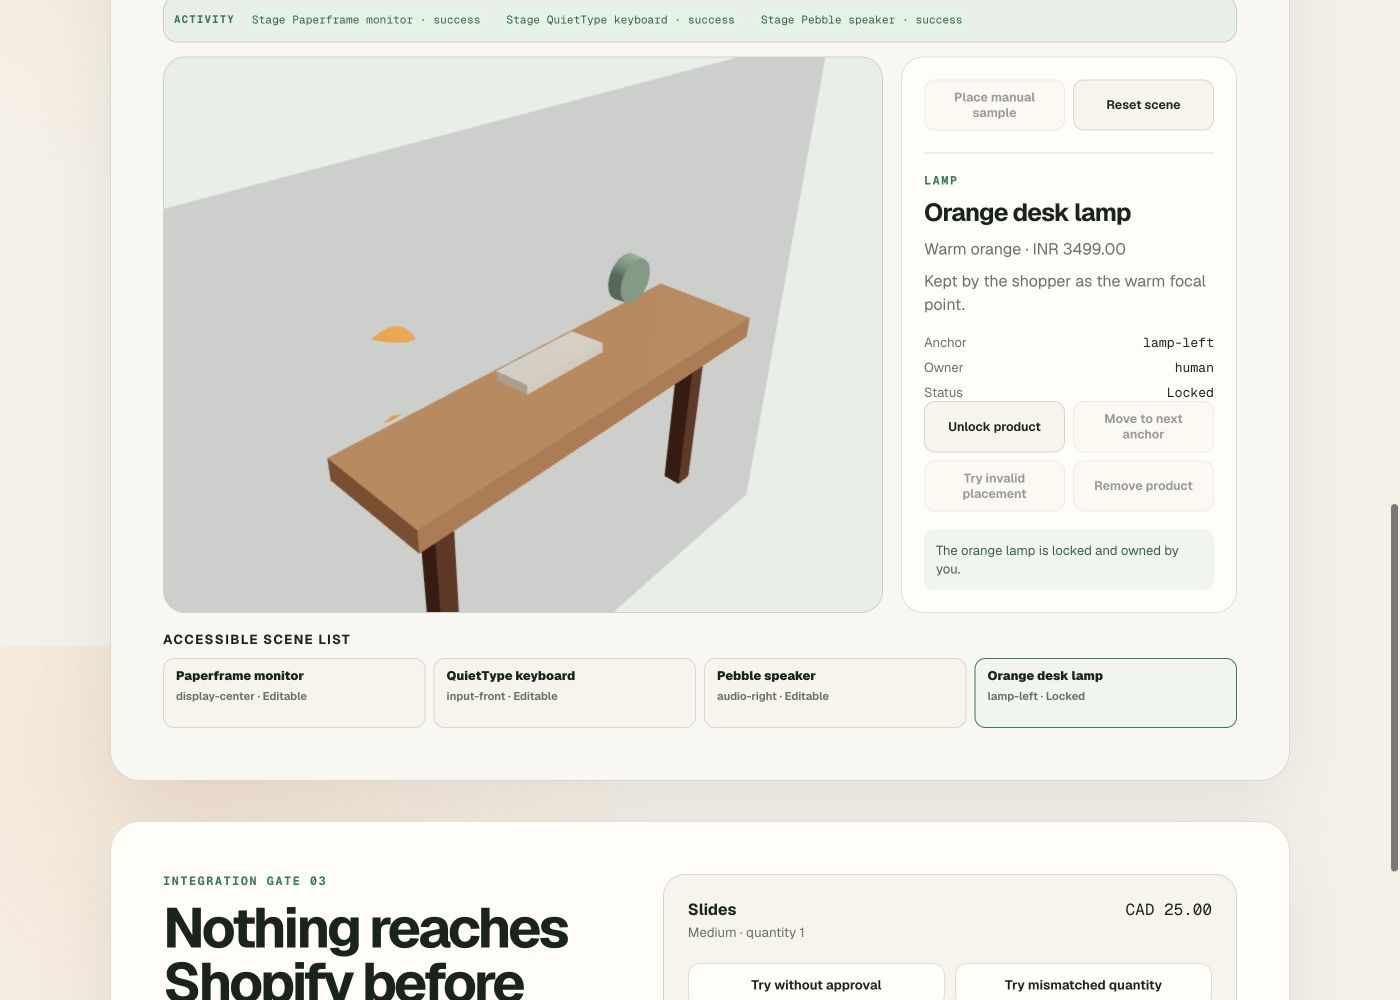
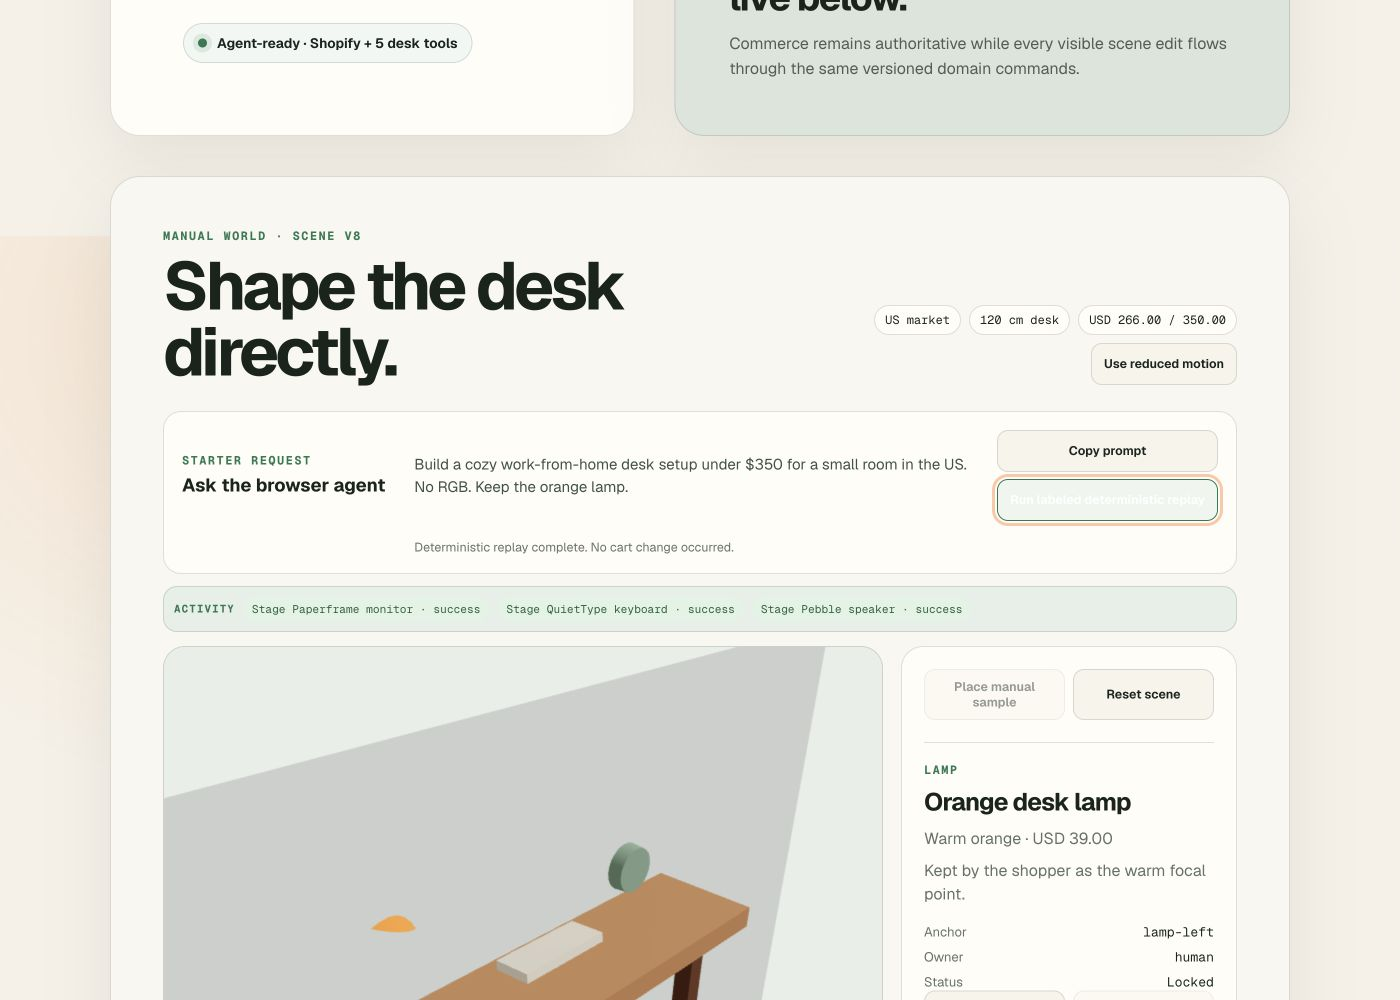
docs: verify US market deployment

diff --git a/docs/hackathon-build/build-notes.md b/docs/hackathon-build/build-notes.md
@@ -159,3 +159,4 @@
 - Repriced the nine deterministic desk fixtures in USD, changed the default market/runtime context to `US`, and updated domain, gateway, WebMCP, prompt, eval, and E2E expectations. The core staged setup is now $266.
 - Historical build notes and evidence retain their original INR results as an audit trail; all active product behavior and forward-looking requirements now use US/USD.
 - Reran the full 24-test suite, 3 E2E journeys, 4 evals, typecheck, lint, and production build successfully.
+- Deployed the US revision to `https://devp-one.vercel.app` and verified through the target browser: `market=US`, `$350` starter budget, `$266` staged total, four scene items, and zero browser errors. Refreshed both animation evidence screenshots so the visible prompt, badges, and prices match US/USD.

diff --git a/docs/integration-evidence.md b/docs/integration-evidence.md
@@ -187,3 +187,8 @@ Current four-item staged total: $266
 
 This revision uses round product-demo budgets and does not claim to be an
 exchange-rate conversion.
+
+The final deployed target-browser check returned `market: US`, budget
+`USD 350.00`, and a four-item staged total of `USD 266.00` with no console
+errors. The Item 8 screenshots were refreshed after deployment and now show
+the US prompt and USD amounts.
